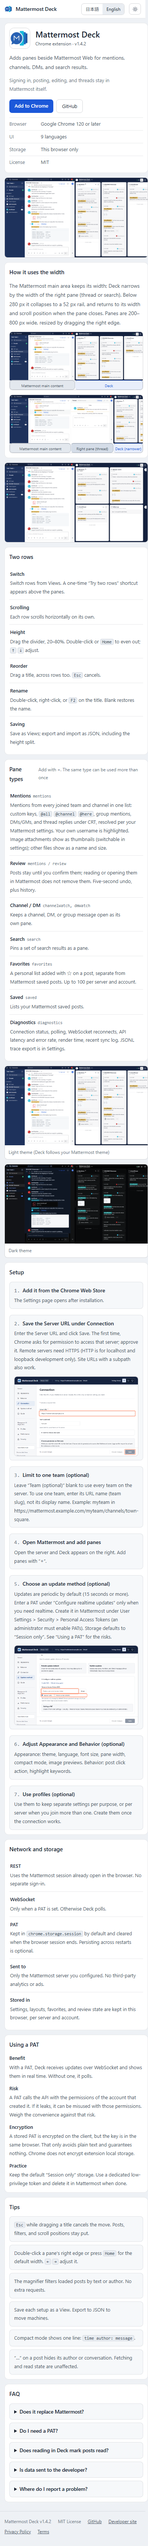
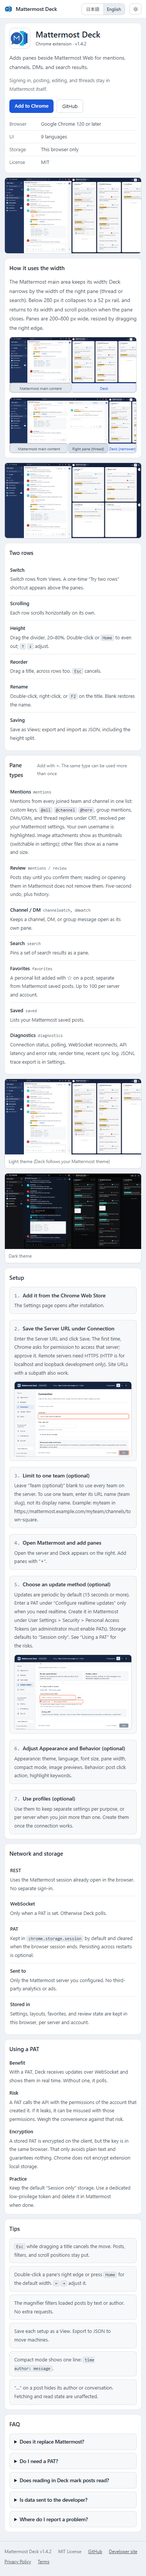
fix: keep long URLs from overflowing on narrow screens

Changed region(s): [[0.0308, 0.0, 1.0, 0.9996]]

diff --git a/mock/deck-tone.css b/mock/deck-tone.css
@@ -131,10 +131,10 @@ figcaption.pad{padding:0 10px 8px}
 .notes{display:grid;gap:10px;font-size:13px}
 .notes p{margin:0;color:var(--soft)}
 .notes b{display:block;color:var(--text);font-weight:600;margin-bottom:2px}
-.card p,.notes p{overflow-wrap:break-word}
+.card p,.notes p{overflow-wrap:anywhere}
 table.list td{overflow-wrap:anywhere}
 body{word-break:auto-phrase;line-break:strict}
 p,td,li,summary{text-wrap:pretty}
-.step{display:grid;gap:12px}
+.step{display:grid;gap:12px;grid-template-columns:minmax(0,1fr)}
 @media(min-width:900px){.step.has-shot{grid-template-columns:minmax(0,1fr) minmax(0,540px);gap:20px;align-items:start}}
 .step .shot{margin:0}
